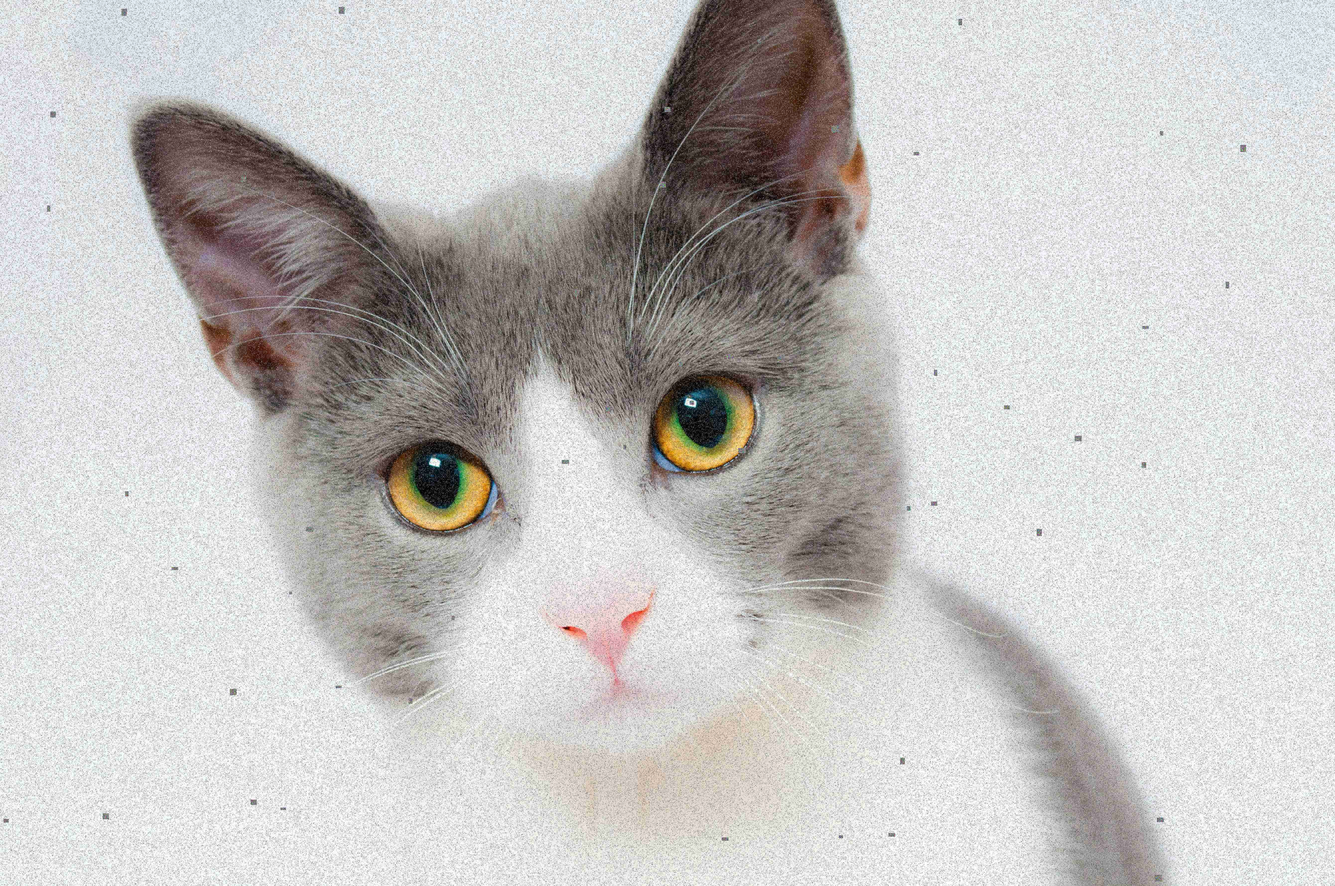
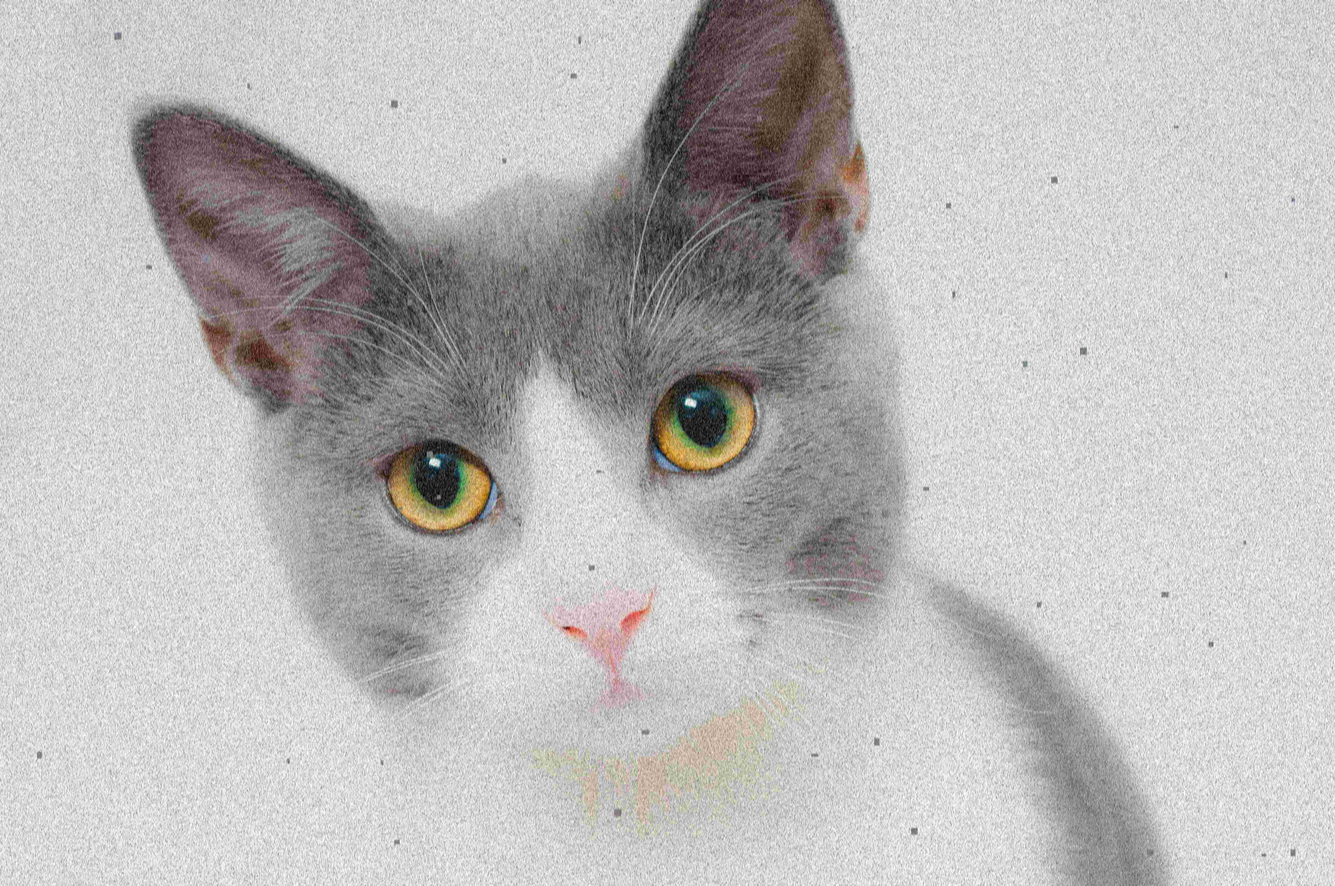
update debug examples

diff --git a/examples/perceptualhash-ecommerce/datatrain.py b/examples/perceptualhash-ecommerce/datatrain.py
@@ -27,15 +27,15 @@ def create_modified_versions():
     img = cv2.cvtColor(img, cv2.COLOR_BGR2RGB)  # Convert to RGB
 
     # 1. Create a strongly blurred version
-    blurred_img = cv2.GaussianBlur(img, (61, 61), 0)  # Increased blur strength
+    blurred_img = cv2.GaussianBlur(img, (121, 121), 0)  # Increased blur strength
     blur_output_path = os.path.join(output_dir, "cat_blurred.png")
     cv2.imwrite(blur_output_path, cv2.cvtColor(blurred_img, cv2.COLOR_RGB2BGR))
     print(f"Created stronger blurred image at {blur_output_path}")
 
-    # 2. Create a resized version (50% of original size)
+    # 2. Create a resized version
     img_pil = Image.fromarray(img)  # Convert NumPy array to PIL Image
     width, height = img_pil.size
-    resized_img = img_pil.resize((width // 6, height // 6))
+    resized_img = img_pil.resize((width // 80, height // 80))
     resize_output_path = os.path.join(output_dir, "cat_resized.png")
     resized_img.save(resize_output_path)
     print(f"Created resized image at {resize_output_path}")
@@ -43,8 +43,8 @@ def create_modified_versions():
     # 3. Create a more broken version
     img_array = np.array(img)
 
-    # Add random noise to 10% of pixels
-    num_corrupted_pixels = int(0.1 * img_array.size / img_array.shape[-1])
+    # Add random noise to 30% of pixels
+    num_corrupted_pixels = int(0.3 * img_array.size / img_array.shape[-1])
     for _ in range(num_corrupted_pixels):
         y = random.randint(0, img_array.shape[0] - 1)  # Height
         x = random.randint(0, img_array.shape[1] - 1)  # Width
@@ -62,17 +62,17 @@ def create_modified_versions():
         img_array[block_y:block_y + block_h, block_x:block_x + block_w] = np.random.randint(0, 256, size=(block_h, block_w, 3), dtype=np.uint8)
 
     # Apply a stronger motion blur to random areas
-    if random.random() < 0.7:  # Apply in 70% of cases
+    if random.random() < 0.8:  # Apply in 80% of cases
         kernel_size = random.choice([9, 11, 15])  # Stronger blur
         motion_blur_kernel = np.zeros((kernel_size, kernel_size))
         motion_blur_kernel[:, kernel_size // 2] = 1
         motion_blur_kernel /= kernel_size
         img_array = cv2.filter2D(img_array, -1, motion_blur_kernel)
 
-    # Save the broken image with aggressive JPEG compression (20% quality)
+    # Save the broken image with aggressive JPEG compression (10% quality)
     broken_img = Image.fromarray(img_array)
     broken_output_path = os.path.join(output_dir, "cat_broken.jpg")
-    broken_img.save(broken_output_path, quality=20)  # Low quality for more artifacts
+    broken_img.save(broken_output_path, quality=10)  # Low quality for more artifacts
     print(f"Created heavily broken image at {broken_output_path}")
 
 if __name__ == "__main__":
